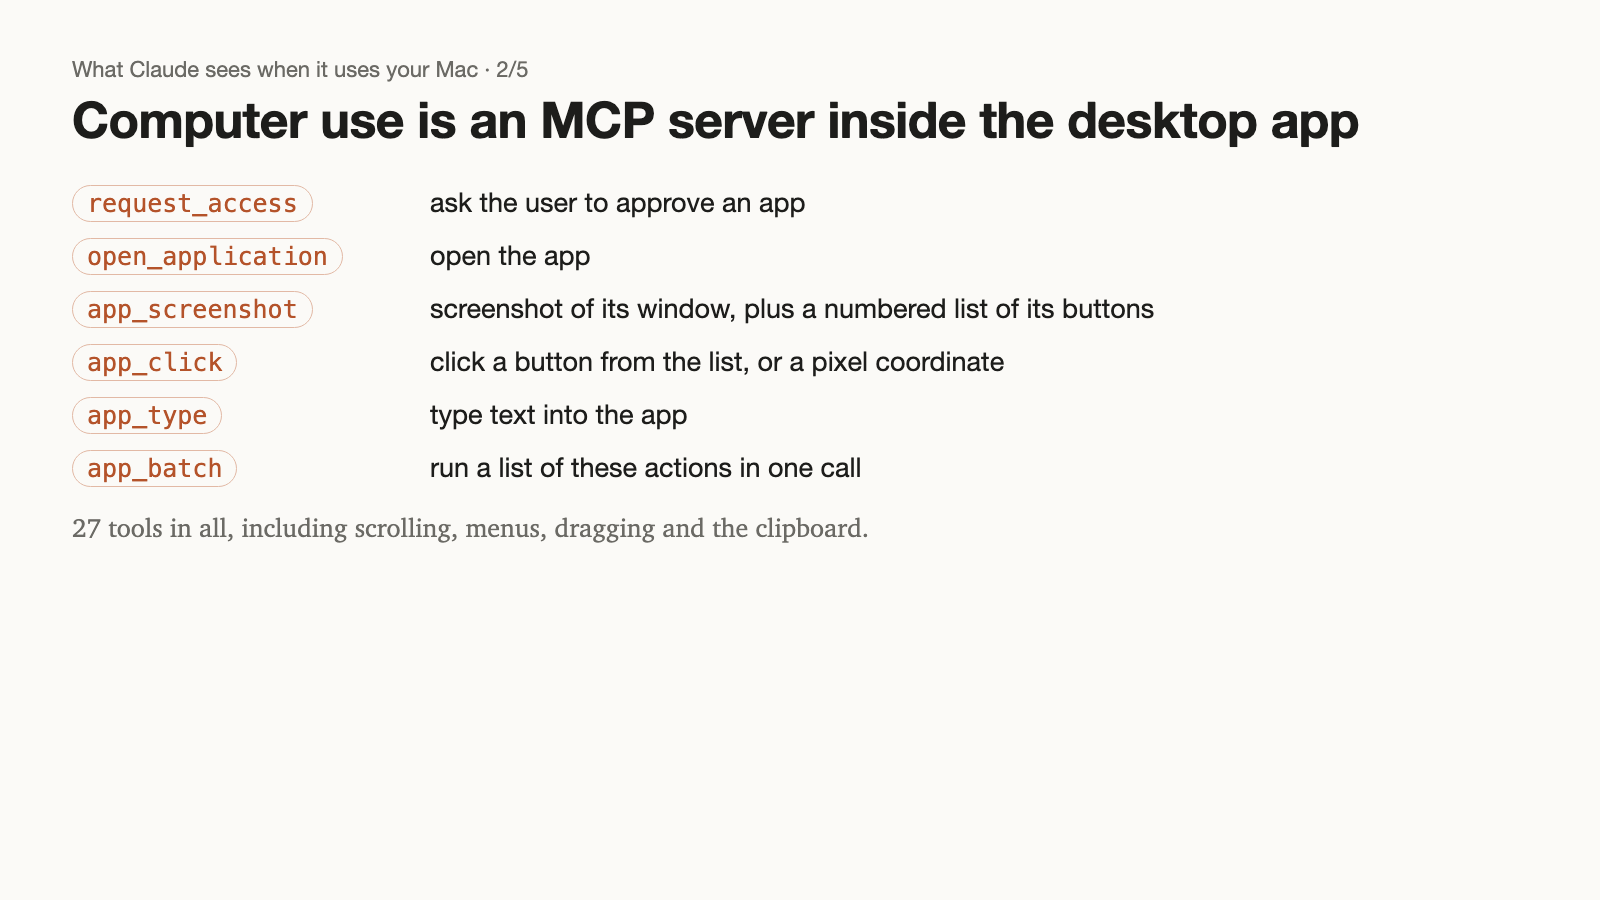
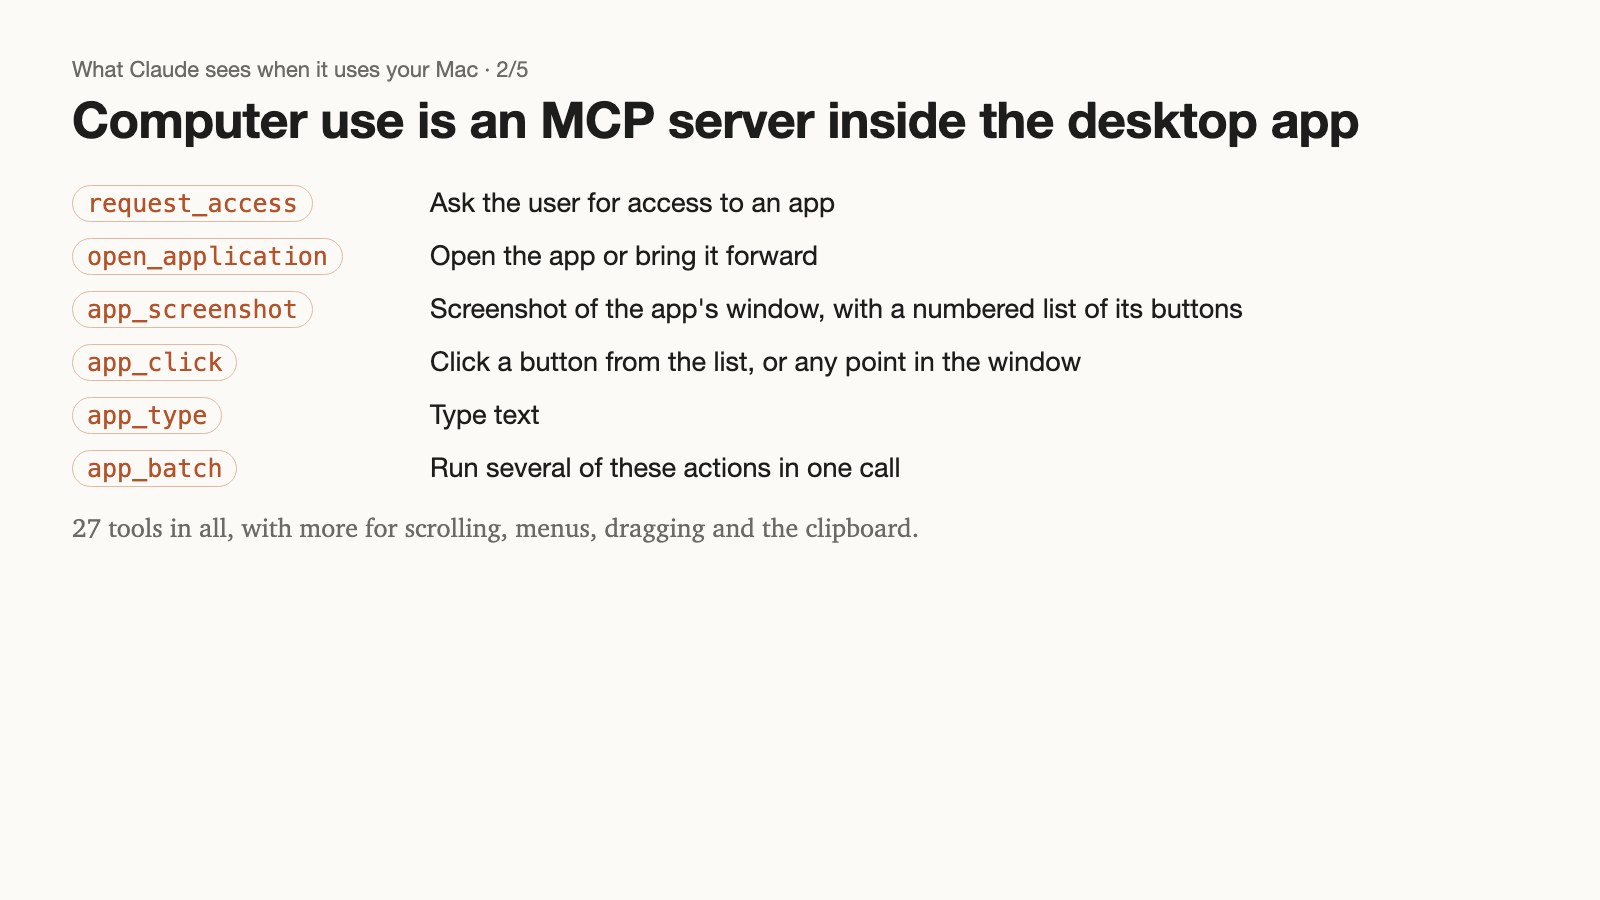
Reword the tweet thread and cards 2 and 3

Changed region(s): [[0.25, 0.28, 0.7812, 0.5289], [0.1562, 0.56, 0.5625, 0.6222], [0.25, 0.2178, 0.5312, 0.2489]]

diff --git a/docs/tweets/cards.html b/docs/tweets/cards.html
@@ -46,14 +46,14 @@ pre{font:24px/1.5 ui-monospace,Menlo,monospace;margin:0;white-space:pre-wrap}
 .tools span{color:var(--fg)}
 </style></head><body>
 <section class="card" id="c1"><div class="kick">What Claude sees when it uses your Mac · 1/5</div><div class="row" style="align-items:center"><div class="col"><h1 class="title1">How does computer use work in modern harnesses?</h1><p class="lead">I reverse engineered the Claude desktop app and logged every request of one computer-use session.</p></div><div class="shot" style="width:300px;height:601px"><img src="../img/trace-shot-2.jpg" alt="Calculator, as Claude saw it"></div></div></section><section class="card" id="c2"><div class="kick">What Claude sees when it uses your Mac · 2/5</div><h1>Computer use is an MCP server inside the desktop app</h1><div class="tools">
-<code>request_access</code><span>ask the user to approve an app</span>
-<code>open_application</code><span>open the app</span>
-<code>app_screenshot</code><span>screenshot of its window, plus a numbered list of its buttons</span>
-<code>app_click</code><span>click a button from the list, or a pixel coordinate</span>
-<code>app_type</code><span>type text into the app</span>
-<code>app_batch</code><span>run a list of these actions in one call</span>
-</div><p class="say small">27 tools in all, including scrolling, menus, dragging and the clipboard.</p></section><section class="card" id="c3"><div class="kick">What Claude sees when it uses your Mac · 3/5</div><h1>A screenshot comes with a list of the app's buttons</h1><div class="row"><div class="shot" style="width:299.0px;height:599.3000000000001px"><img src="../img/trace-shot-2.jpg"><svg viewBox="0 0 230 461"><rect x="2" y="108" width="34" height="31" rx="7" class="bx"/><text x="5" y="119" class="bl">0</text><rect x="188" y="99" width="33" height="13" rx="7" class="bx"/><text x="191" y="110" class="bl">2</text><rect x="177" y="162" width="43" height="13" rx="7" class="bx"/><text x="180" y="173" class="bl">4</text><rect x="10" y="186" width="48" height="48" rx="7" class="bx"/><text x="13" y="197" class="bl">5</text><rect x="64" y="186" width="48" height="48" rx="7" class="bx"/><text x="67" y="197" class="bl">6</text><rect x="118" y="186" width="48" height="48" rx="7" class="bx"/><text x="121" y="197" class="bl">7</text><rect x="172" y="186" width="48" height="48" rx="7" class="bx"/><text x="175" y="197" class="bl">8</text><rect x="10" y="240" width="48" height="48" rx="7" class="bx"/><text x="13" y="251" class="bl">9</text><rect x="64" y="240" width="48" height="48" rx="7" class="bx"/><text x="67" y="251" class="bl">10</text><rect x="118" y="240" width="48" height="48" rx="7" class="bx"/><text x="121" y="251" class="bl">11</text><rect x="172" y="240" width="48" height="48" rx="7" class="bx"/><text x="175" y="251" class="bl">12</text><rect x="10" y="294" width="48" height="48" rx="7" class="bx"/><text x="13" y="305" class="bl">13</text><rect x="64" y="294" width="48" height="48" rx="7" class="bx hot"/><text x="67" y="305" class="bl hot">14</text><rect x="118" y="294" width="48" height="48" rx="7" class="bx"/><text x="121" y="305" class="bl">15</text><rect x="172" y="294" width="48" height="48" rx="7" class="bx"/><text x="175" y="305" class="bl">16</text><circle cx="88" cy="318" r="5" class="tgt"/><line x1="88" y1="305" x2="88" y2="331" class="tgt"/><line x1="75" y1="318" x2="101" y2="318" class="tgt"/></svg></div>
-        <div class="col"><div class="k">Claude receives</div><pre class="ax"><span class="ln">[9] AXButton [10,240 48×48] "7"</span>
+<code>request_access</code><span>Ask the user for access to an app</span>
+<code>open_application</code><span>Open the app or bring it forward</span>
+<code>app_screenshot</code><span>Screenshot of the app's window, with a numbered list of its buttons</span>
+<code>app_click</code><span>Click a button from the list, or any point in the window</span>
+<code>app_type</code><span>Type text</span>
+<code>app_batch</code><span>Run several of these actions in one call</span>
+</div><p class="say small">27 tools in all, with more for scrolling, menus, dragging and the clipboard.</p></section><section class="card" id="c3"><div class="kick">What Claude sees when it uses your Mac · 3/5</div><h1>Every screenshot comes with a list of buttons</h1><div class="row"><div class="shot" style="width:299.0px;height:599.3000000000001px"><img src="../img/trace-shot-2.jpg"><svg viewBox="0 0 230 461"><rect x="2" y="108" width="34" height="31" rx="7" class="bx"/><text x="5" y="119" class="bl">0</text><rect x="188" y="99" width="33" height="13" rx="7" class="bx"/><text x="191" y="110" class="bl">2</text><rect x="177" y="162" width="43" height="13" rx="7" class="bx"/><text x="180" y="173" class="bl">4</text><rect x="10" y="186" width="48" height="48" rx="7" class="bx"/><text x="13" y="197" class="bl">5</text><rect x="64" y="186" width="48" height="48" rx="7" class="bx"/><text x="67" y="197" class="bl">6</text><rect x="118" y="186" width="48" height="48" rx="7" class="bx"/><text x="121" y="197" class="bl">7</text><rect x="172" y="186" width="48" height="48" rx="7" class="bx"/><text x="175" y="197" class="bl">8</text><rect x="10" y="240" width="48" height="48" rx="7" class="bx"/><text x="13" y="251" class="bl">9</text><rect x="64" y="240" width="48" height="48" rx="7" class="bx"/><text x="67" y="251" class="bl">10</text><rect x="118" y="240" width="48" height="48" rx="7" class="bx"/><text x="121" y="251" class="bl">11</text><rect x="172" y="240" width="48" height="48" rx="7" class="bx"/><text x="175" y="251" class="bl">12</text><rect x="10" y="294" width="48" height="48" rx="7" class="bx"/><text x="13" y="305" class="bl">13</text><rect x="64" y="294" width="48" height="48" rx="7" class="bx hot"/><text x="67" y="305" class="bl hot">14</text><rect x="118" y="294" width="48" height="48" rx="7" class="bx"/><text x="121" y="305" class="bl">15</text><rect x="172" y="294" width="48" height="48" rx="7" class="bx"/><text x="175" y="305" class="bl">16</text><circle cx="88" cy="318" r="5" class="tgt"/><line x1="88" y1="305" x2="88" y2="331" class="tgt"/><line x1="75" y1="318" x2="101" y2="318" class="tgt"/></svg></div>
+        <div class="col"><div class="k">Button list, from the accessibility API</div><pre class="ax"><span class="ln">[9] AXButton [10,240 48×48] "7"</span>
 <span class="ln">[10] AXButton [64,240 48×48] "8"</span>
 <span class="ln">[11] AXButton [118,240 48×48] "9"</span>
 <span class="ln">[12] AXButton [172,240 48×48] "Multiply"</span>
@@ -62,7 +62,7 @@ pre{font:24px/1.5 ui-monospace,Menlo,monospace;margin:0;white-space:pre-wrap}
 <span class="ln">[15] AXButton [118,294 48×48] "6"</span>
 <span class="ln">[16] AXButton [172,294 48×48] "Subtract"</span></pre>
         <div class="k">Claude's tool call</div><pre class="io out">app_click(coordinate: [88, 318])</pre>
-        <div class="k">Tool result</div><pre class="io">ok (AXPress on AXButton '5')</pre></div></div></section><section class="card" id="c4"><div class="kick">What Claude sees when it uses your Mac · 4/5</div><h1>Seven clicks and a screenshot in one tool call</h1><div class="row two"><div class="panel" style="flex:0 0 600px"><div class="k">Claude's tool call</div><pre class="ax big">app_batch([
+        <div class="k">Tool result</div><pre class="io">ok (AXPress on AXButton '5')</pre></div></div><p class="say small" style="margin-top:14px">Claude gets the plain screenshot; the boxes here are drawn from the list.</p></section><section class="card" id="c4"><div class="kick">What Claude sees when it uses your Mac · 4/5</div><h1>Seven clicks and a screenshot in one tool call</h1><div class="row two"><div class="panel" style="flex:0 0 600px"><div class="k">Claude's tool call</div><pre class="ax big">app_batch([
   click(88, 210)  <span class="ln">// Clear</span>
   click(88, 210)  <span class="ln">// All Clear</span>
   click(34, 375)  <span class="ln">// 1</span>

diff --git a/docs/tweets/index.html b/docs/tweets/index.html
@@ -10,14 +10,14 @@ section{border-top:1px solid var(--rule);padding:18px 0 22px}
 p{font-size:17px;margin:.4em 0 .8em;white-space:pre-wrap}
 img{width:100%;height:auto;border:1px solid var(--rule);border-radius:14px;display:block}
 a{color:var(--accent);font-size:14px;display:inline-block;margin-top:6px}
-</style></head><body><main><h1>Thread draft</h1><p class="sub">Five posts, one 1600×900 image each, built from the same logged session as the post. Character counts follow X's rules: a link counts as 23 and an emoji as 2.</p><section><div class="n">1/5 <span>204/280</span></div><p>Do you know how computer use works in modern harnesses? I wasn&#x27;t sure, so I reverse engineered the Claude desktop app and logged every request it made while Claude used my Mac.
+</style></head><body><main><h1>Thread draft</h1><p class="sub">Five posts, one 1600×900 image each, built from the same logged session as the post. Character counts follow X's rules: a link counts as 23 and an emoji as 2.</p><section><div class="n">1/5 <span>223/280</span></div><p>How does computer use work in modern agent harnesses? I wasn&#x27;t sure, so I reverse engineered the Claude desktop app and logged every request it made while Claude used my Mac.
 
-https://runfme.github.io/claude-computer-use-trace/ 🧵</p><img src="tweet-1.png?v=2" alt="image for tweet 1"><a href="tweet-1.png" download>Download image</a></section><section><div class="n">2/5 <span>246/280</span></div><p>Computer use is just a special MCP server bundled with the Claude desktop app.
+Here&#x27;s what I found: https://runfme.github.io/claude-computer-use-trace/ 🧵</p><img src="tweet-1.png?v=3" alt="image for tweet 1"><a href="tweet-1.png" download>Download image</a></section><section><div class="n">2/5 <span>249/280</span></div><p>Computer use is just an MCP server that ships inside the Claude desktop app.
 
-Through it, the model can ask to open an application, get a screenshot with numbered buttons, and click somewhere: on a button from the list or at a pixel coordinate.</p><img src="tweet-2.png?v=2" alt="image for tweet 2"><a href="tweet-2.png" download>Download image</a></section><section><div class="n">3/5 <span>219/280</span></div><p>When the model asks for a screenshot, it gets the image plus a list of the app&#x27;s buttons, each with its bounding box.
+Its tools let the model open an app, take a screenshot that comes with a numbered list of buttons, and click: either a button from that list or any point in the window. 🔌</p><img src="tweet-2.png?v=3" alt="image for tweet 2"><a href="tweet-2.png" download>Download image</a></section><section><div class="n">3/5 <span>261/280</span></div><p>Every screenshot comes with a list of the app&#x27;s buttons: a number, a name and a bounding box for each.
 
-The list comes from the old macOS accessibility API, the same one screen readers like VoiceOver use.</p><img src="tweet-3.png?v=2" alt="image for tweet 3"><a href="tweet-3.png" download>Download image</a></section><section><div class="n">4/5 <span>243/280</span></div><p>A big reason computer use works well: Claude can batch clicks.
+The list comes from the macOS accessibility API, the same one screen readers like VoiceOver use. So Claude doesn&#x27;t have to find buttons from pixels alone. 📸</p><img src="tweet-3.png?v=3" alt="image for tweet 3"><a href="tweet-3.png" download>Download image</a></section><section><div class="n">4/5 <span>235/280</span></div><p>Batching is a big part of why it&#x27;s fast. Claude sent seven clicks and a screenshot in one tool call, and the server ran all of them in 685 ms.
 
-Here it sent seven clicks and a screenshot in one tool call, and the server ran them in 685 ms. One model turn took 2.5 to 14 s, so one click per turn would have been much slower.</p><img src="tweet-4.png?v=2" alt="image for tweet 4"><a href="tweet-4.png" download>Download image</a></section><section><div class="n">5/5 <span>279/280</span></div><p>The desktop app contains the Agent SDK and the computer-use MCP server, and runs the Claude Code CLI, basically the same one you use in a terminal. The CLI talks to the Anthropic API; the MCP server calls a native library that forwards requests to macOS.
+A single model turn took 2.5 to 14 s, so one click per turn would have taken far longer. ⚡</p><img src="tweet-4.png?v=3" alt="image for tweet 4"><a href="tweet-4.png" download>Download image</a></section><section><div class="n">5/5 <span>270/280</span></div><p>The desktop app runs the same Claude Code CLI you use in a terminal, and the CLI talks to the Anthropic API. The app itself hosts the Agent SDK and the computer-use MCP server, which passes each action to a native library that talks to macOS.
 
-https://runfme.github.io/claude-computer-use-trace/</p><img src="tweet-5.png?v=2" alt="image for tweet 5"><a href="tweet-5.png" download>Download image</a></section></main></body></html>
+https://runfme.github.io/claude-computer-use-trace/ 🧩</p><img src="tweet-5.png?v=3" alt="image for tweet 5"><a href="tweet-5.png" download>Download image</a></section></main></body></html>

diff --git a/docs/index.html b/docs/index.html
@@ -53,7 +53,7 @@ details.appendix p,details.appendix li{font-size:16px}
 .foot{margin-top:3em;font:13px -apple-system,sans-serif;color:var(--muted)}
 @media (max-width:640px){body{font-size:17px}h1{font-size:1.8rem}.fig1 .f1{flex-direction:column}.shotwrap,.shotwrap img,.shotwrap svg{width:200px;height:401px}.fig2{overflow-x:auto}.fig2 svg{min-width:600px}}
 </style>
-<link rel="stylesheet" href="scaffold.css?v=1793648945">
+<link rel="stylesheet" href="scaffold.css?v=1793649291">
 </head>
 <body>
 <main>
@@ -148,8 +148,8 @@ details.appendix p,details.appendix li{font-size:16px}
 </details>
 <p class="foot">Logged on November 1, 2026, with Claude desktop app 4.4212, Claude Code 2.1.309 and macOS 27. The viewer's data is the real request log of one session, about 400 KB of JSON.</p>
 </main>
-<script>window.BUILD = "1793648945";</script>
-<script src="scaffold.js?v=1793648945"></script>
+<script>window.BUILD = "1793649291";</script>
+<script src="scaffold.js?v=1793649291"></script>
 <script>
 if (new URLSearchParams(location.search).has("live")) setInterval(() => fetch("build-id.txt", {cache: "no-store"}).then(r => r.text()).then(t => { if (t.trim() !== window.BUILD) location.reload(); }).catch(() => {}), 1000);
 </script>
